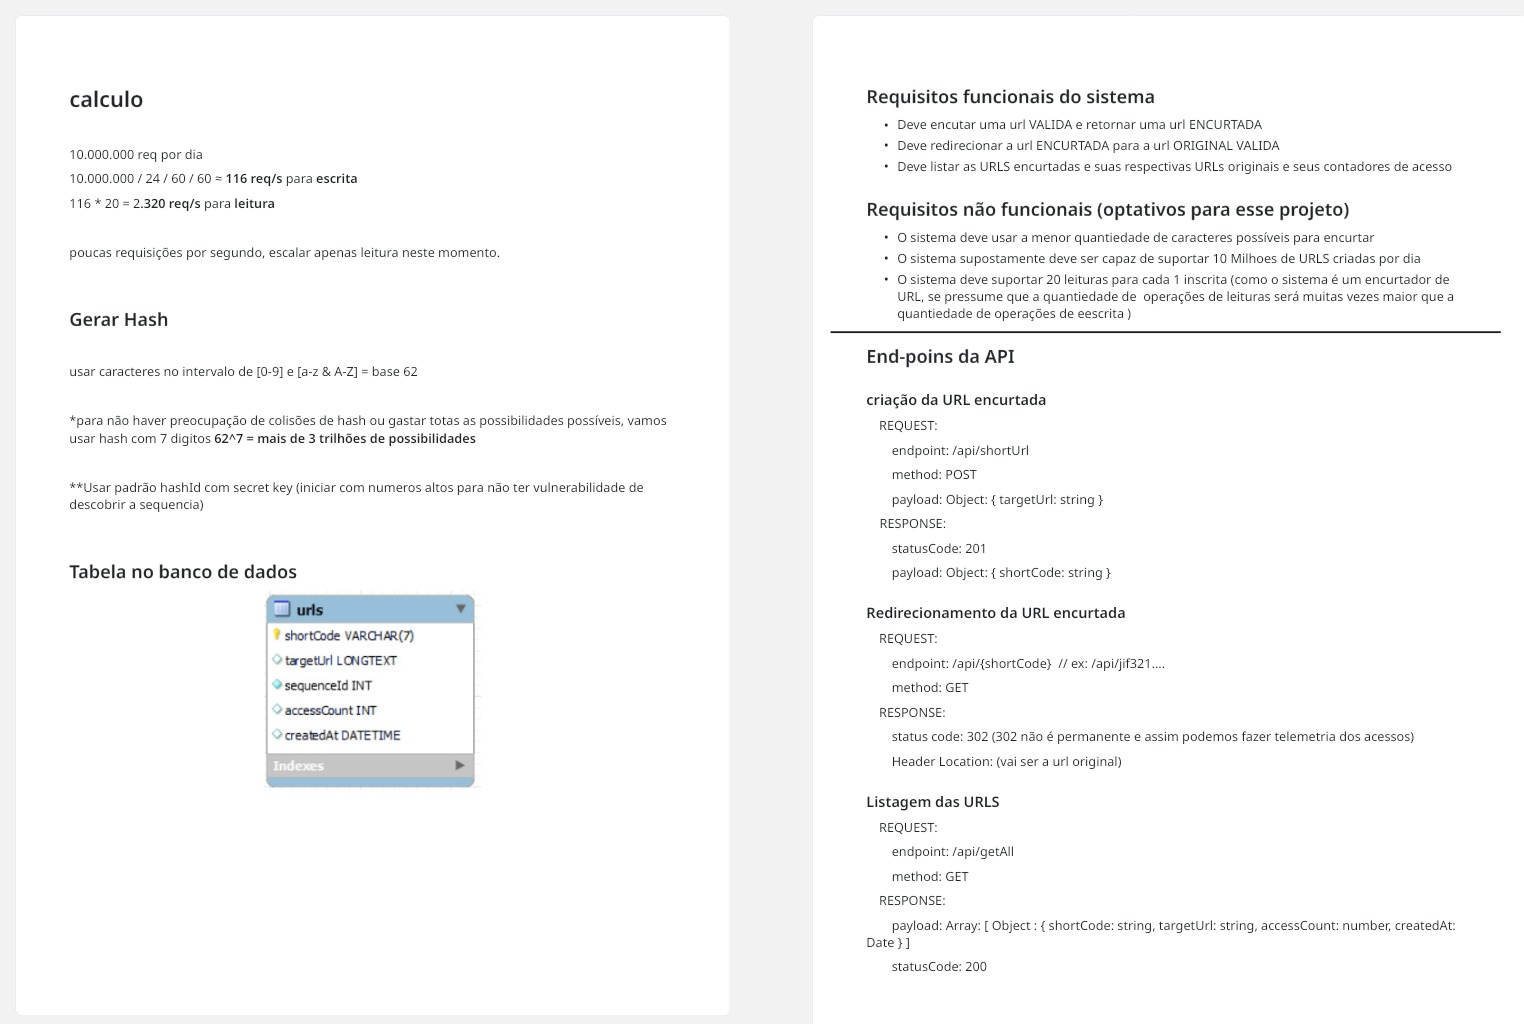
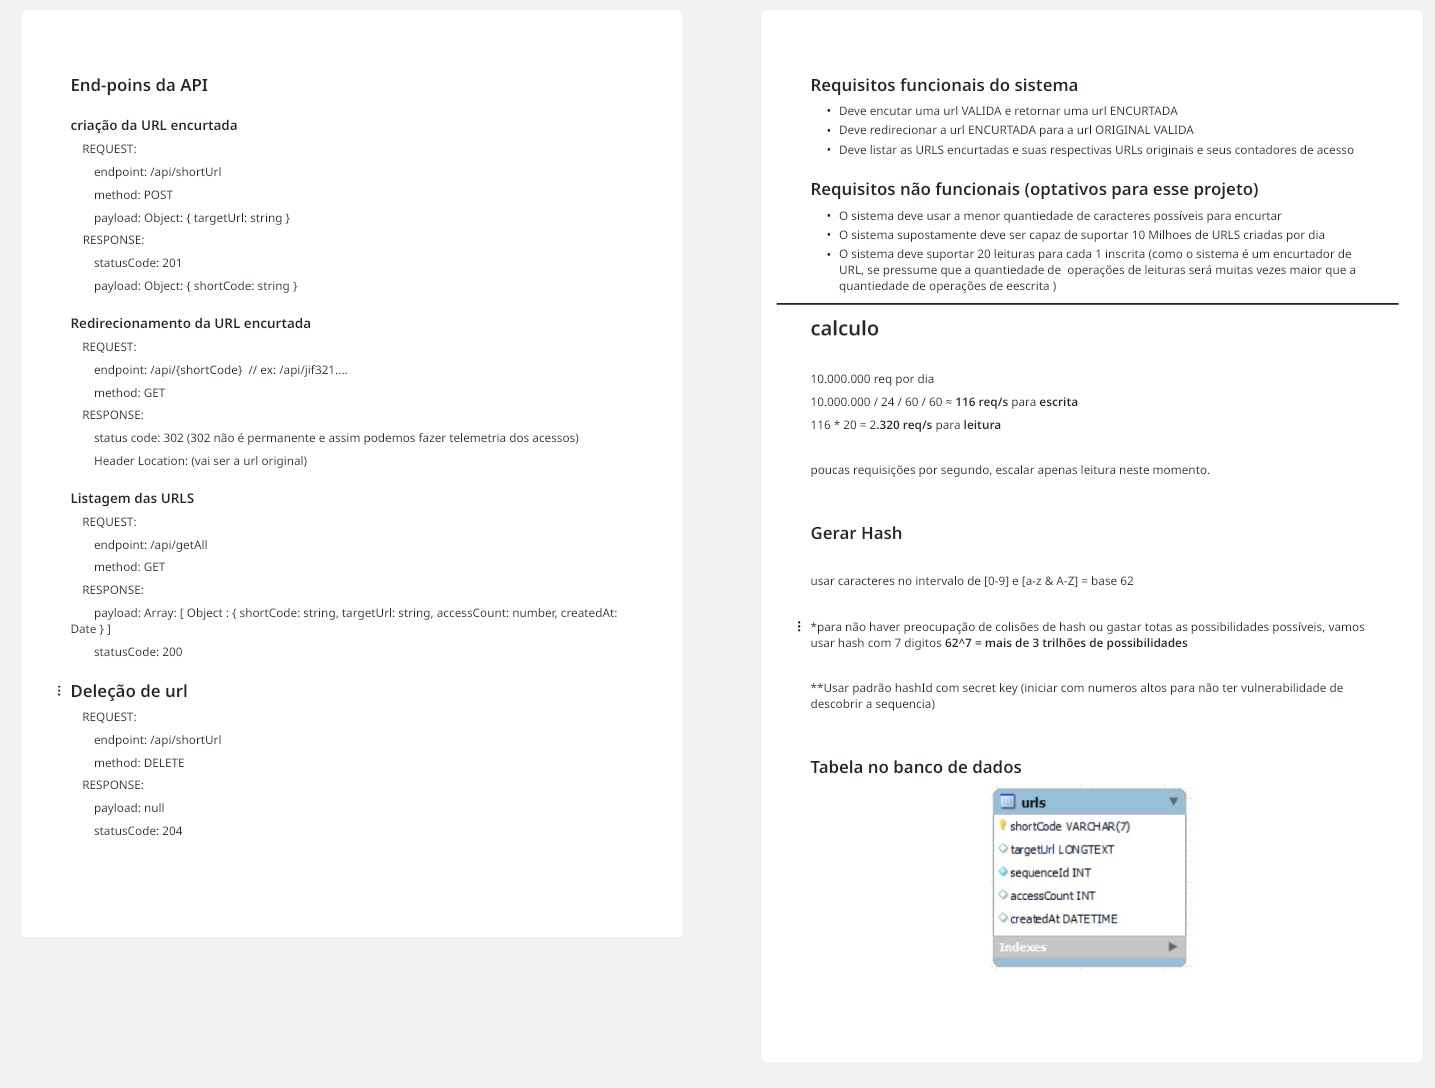
chore: final integrate frontend with backend

diff --git a/src/front-end/src/app/url/components/url-delete-modal/url-delete-modal.scss b/src/front-end/src/app/url/components/url-delete-modal/url-delete-modal.scss
@@ -1,0 +1,101 @@
+@use "../../../../styles/vars.scss" as *;
+
+.modal {
+    &-content {
+        width: 480px;
+        padding: 28px;
+        background-color: $color-surface;
+        gap: 16px;
+        border-radius: 10px;
+    }
+
+    &-title {
+        font-size: 22px;
+        margin: 0;
+        font-family: $font-family;
+        font-weight: 500;
+        color: $color-text;
+    }
+
+    &-subtitle {
+        font-size: 15px;
+        font-family: $font-family;
+        font-weight: 400;
+        color: $text-secondary-60;
+    }
+
+    &-url {
+        &-container {
+            height: auto;
+            background-color: $color-bg;
+            border-radius: 12px;
+            padding: 20px;
+            border: 0.5px solid $color-tag-bg;
+        }
+    }
+}
+
+.targetUrl,
+.count {
+    font-size: 15px;
+    white-space: nowrap;
+    font-family: $font-family;
+    font-weight: 400;
+    color: $text-secondary-60;
+}
+
+.shortCode {
+    font-size: 18px;
+    font-family: $font-family;
+    font-weight: 500;
+    color: $color-text;
+}
+
+dialog::backdrop {
+    background: rgba(0, 0, 0, 0.5);
+    width: 100vw;
+    height: 100vh;
+    display: flex;
+    justify-content: center;
+    align-items: center;
+}
+
+dialog {
+    border: none;
+    border-radius: 8px;
+    padding: 2rem;
+}
+
+.btn{
+
+    &s{
+        margin: 16px;
+        display: flex;
+        justify-content: end;
+        gap: 10px;
+    }
+
+    &-close{
+        background-color: transparent;
+        font-family: $font-family;
+        border: 1px solid $color-text;
+        font-size: 13px;
+        font-weight: 400;
+        border-radius: 10px;
+        padding:14px 28px;
+        color: $color-text;
+        pointer-events: all;
+    }
+
+    &-delete{
+        background-color: transparent;
+        font-family: $font-family;
+        border: 1px solid $color-accent;
+        font-size: 13px;
+        font-weight: 400;
+        border-radius: 10px;
+        padding:14px 28px;
+        color: $color-accent;
+        pointer-events: all;
+    }
+}

diff --git a/src/front-end/src/app/pages/list-urls/list-urls.ts b/src/front-end/src/app/pages/list-urls/list-urls.ts
@@ -1,11 +1,12 @@
-import { Component, inject } from '@angular/core';
+import { Component, inject, signal } from '@angular/core';
 import { UrlShorted } from '../../url/components/url-shorted/url-shorted';
-import { UrlsListState } from '../../url/state/urls-list';
+import { UrlModel, UrlsListState } from '../../url/state/urls-list';
 import { LongTextPipe } from '../../url/utils/long-text-pipe-pipe';
 import { DatePipe } from '@angular/common';
+import { UrlDeleteModal } from "../../url/components/url-delete-modal/url-delete-modal";
 
 @Component({
-  imports: [UrlShorted, LongTextPipe,DatePipe],
+  imports: [UrlShorted, LongTextPipe, DatePipe, UrlDeleteModal],
   selector: 'app-list-urls',
   styleUrl: './list-urls.scss',
   templateUrl: './list-urls.html',
@@ -13,5 +14,25 @@ import { DatePipe } from '@angular/common';
 export class ListUrls {
 
   protected state = inject(UrlsListState);
+  protected statusModal = signal("hidden");
+  protected chosenUrlModel = signal<UrlModel>({
+    accessCount:0,
+    createdAt:"",
+    shortCode:"",
+    targetUrl:""
+  })
+
+  protected openModal(urlModel:UrlModel){
+    this.chosenUrlModel.set(urlModel);
+    this.statusModal.set("show")
+  }
+
+  protected addView(urlModel:UrlModel){
+    urlModel.accessCount += 1;
+  }
+
+  protected async copy(shortCode:string) {
+    navigator.clipboard.writeText(`http://localhost:3000/${shortCode}`)
+  }
 
 }

diff --git a/src/front-end/src/app/pages/list-urls/list-urls.html b/src/front-end/src/app/pages/list-urls/list-urls.html
@@ -26,14 +26,14 @@
                         <span class="truncate"> {{ urlModel.targetUrl | longTextPipe }} </span>
                     </td>
                     <td class="col-short">
-                        <a href="http://localhost:3000/{{urlModel.shortCode}}" target="_blank" rel="noopener">
+                        <a (click)="this.addView(urlModel)" href="http://localhost:3000/{{urlModel.shortCode}}" target="_blank" rel="noopener">
                             http://localhost:3000/{{urlModel.shortCode}} </a>
                     </td> 
                     <td class="col-date"> {{urlModel.createdAt | date:'dd/MM/yyyy' }} </td>
                     <td class="col-clicks"> {{urlModel.accessCount}} </td>
                     <td class="col-actions">
-                        <button type="button" class="btn-copy">Copiar</button>
-                        <button type="button" class="btn-delete">Excluir</button>
+                        <button type="button" class="btn-copy" (click)="this.copy(urlModel.shortCode)">Copiar</button>
+                        <button type="button" class="btn-delete" (click)="openModal(urlModel)">Excluir</button>
                     </td>
                 </tr>
                 }
@@ -42,3 +42,5 @@
         </table>
     </div>
 </div>
+
+<app-url-delete-modal [(status)]="this.statusModal" [(urlModel)]="this.chosenUrlModel" ></app-url-delete-modal>

diff --git a/src/front-end/src/app/url/components/url-delete-modal/url-delete-modal.ts b/src/front-end/src/app/url/components/url-delete-modal/url-delete-modal.ts
@@ -1,0 +1,47 @@
+import { Component, effect, ElementRef, inject, input, model, untracked, ViewChild } from '@angular/core';
+import { LongTextPipe } from '../../utils/long-text-pipe-pipe';
+import { UrlModel, UrlsListState } from '../../state/urls-list';
+import { UrlFacade } from '../../facade/url-facade';
+
+@Component({
+  imports: [LongTextPipe],
+  selector: 'app-url-delete-modal',
+  styleUrl: './url-delete-modal.scss',
+  templateUrl: './url-delete-modal.html',
+})
+export class UrlDeleteModal {
+
+  private facade = inject(UrlFacade);
+  private urlsListState = inject(UrlsListState);
+  @ViewChild('modal') protected modal!: ElementRef<HTMLDialogElement>;
+
+  status = model("hidden");
+  urlModel = model.required<UrlModel>();
+
+  constructor() {
+    effect(() => {
+      if (this.status() == "hidden") {
+        this.close();
+      } else {
+        this.open()
+      }
+    })
+  }
+
+  open() {
+    this.modal.nativeElement.showModal();
+    document.body.style.overflow = 'hidden'; // fallback
+  }
+
+  close() {
+    untracked(() => this.status.set("hidden"))
+    this.modal.nativeElement.close();
+    document.body.style.overflow = ''; // fallback
+  }
+
+  protected deleteUrl() {
+    this.close();
+    this.urlsListState.removeOne(this.urlModel().shortCode)
+    this.facade.deleteUrlModel(this.urlModel().shortCode)
+  }
+}

diff --git a/src/front-end/src/app/url/components/url-shorted/url-shorted.html b/src/front-end/src/app/url/components/url-shorted/url-shorted.html
@@ -2,15 +2,13 @@
     <div class="shorten-form-field">
         <label class="shorten-form-label" for="targetUrl">URL original</label>
         <div class="shorten-form-row">
-            <div style="display: flex; flex-direction: column; width: 100%;">
-                <input id="targetUrl" class="shorten-form-input" type="url" [formField]="this.urlForm.targetUrl"
-                    placeholder="https://exemplo.com/pagina-com-endereco-muito-longo" autocomplete="off" />
-                @if(
-                this.urlForm.targetUrl().touched() &&
-                this.urlForm.targetUrl().invalid()){
-                <span class="input-invalid"> {{ this.urlForm.targetUrl().errors()[0].message }} </span>
-                }
-            </div>
+            <input id="targetUrl" class="shorten-form-input" type="url" [formField]="this.urlForm.targetUrl"
+                placeholder="https://exemplo.com/pagina-com-endereco-muito-longo" autocomplete="off" />
+            @if(
+            this.urlForm.targetUrl().touched() &&
+            this.urlForm.targetUrl().invalid()){
+            <span class="input-invalid"> {{ this.urlForm.targetUrl().errors()[0].message }} </span>
+            }
             <button type="submit" class="shorten-btn">Encurtar</button>
         </div>
     </div>

diff --git a/src/front-end/src/app/app.html b/src/front-end/src/app/app.html
@@ -1,16 +1,20 @@
 <header class="header">
-  <span class="header-logo">Encurta</span>
+  <div class="header-content">
+    <span class="header-logo">Encurta</span>
 
-  <nav class="header-nav">
-    <button type="button" class="header-nav-item" [class.header-nav-item--active]="activeTab() === 'encurtar'"
-      (click)="setTab('encurtar')">
-      Encurtar
-    </button>
-    <button type="button" class="header-nav-item" [class.header-nav-item--active]="activeTab() === 'meus-links'"
-      (click)="setTab('meus-links')">
-      Meus links
-    </button>
-  </nav>
+    <nav class="header-nav">
+      <button type="button" class="header-nav-item" [class.header-nav-item--active]="activeTab() === 'encurtar'"
+        (click)="setTab('encurtar')"
+        routerLink="/home">
+        Encurtar
+      </button>
+      <button type="button" class="header-nav-item" [class.header-nav-item--active]="activeTab() === 'meus-links'"
+        (click)="setTab('meus-links')"
+        routerLink="/list">
+        Meus links
+      </button>
+    </nav>
+  </div>
 </header>
 
 <router-outlet></router-outlet>

diff --git a/src/front-end/src/app/url/components/url-delete-modal/url-delete-modal.html b/src/front-end/src/app/url/components/url-delete-modal/url-delete-modal.html
@@ -1,0 +1,17 @@
+
+
+<dialog class="modal-content" #modal>
+  <h2 class="modal-title">Excluir esse link?</h2>
+  <p class="modal-subtitle">O link curto deixará de funcionar imediatamente e o historico de clique será perdido. Está ação não pode ser desfeita.</p>
+
+  <section class="modal-url-container">
+    <h3 class="shortCode"> 	http://localhost:3000/{{this.urlModel().shortCode}} </h3>
+    <p class="targetUrl"> {{ this.urlModel().targetUrl| longTextPipe:50 }} </p>
+    <p class="count"> {{ this.urlModel().accessCount }} cliques </p>
+  </section>
+
+  <section class="btns">
+    <button type="button" class="btn-close" (click)="this.close()"> Cancelar </button>
+    <button type="button" class="btn-delete" (click)="this.deleteUrl()"> Excluir link </button>
+  </section>
+</dialog>

diff --git a/src/front-end/src/app/app.scss b/src/front-end/src/app/app.scss
@@ -13,10 +13,18 @@
     display: flex;
     align-items: center;
     justify-content: space-around;
-    gap:650px;
+    display: flex;
+    justify-content: center;
     height: 61px;
     padding: 18px 40px;
     border-bottom: 1px solid $color-divider;
+
+    &-content{
+        width: 100%;
+        max-width: $container-max;
+        display: flex;
+        justify-content: space-between;
+    }
 
     &-logo {
         font-size: 19px;
@@ -43,7 +51,7 @@
         color: $text-secondary-60;
 
         &--active {
-            color: $color-text;
+            color: $color-accent;
             text-decoration: underline;
             text-underline-offset: 4px;
             text-decoration-thickness: 2px;

diff --git a/src/front-end/src/app/url/components/url-delete-modal/url-delete-modal.spec.ts b/src/front-end/src/app/url/components/url-delete-modal/url-delete-modal.spec.ts
@@ -1,0 +1,21 @@
+import { ComponentFixture, TestBed } from '@angular/core/testing';
+import { UrlDeleteModal } from './url-delete-modal';
+
+describe('UrlDeleteModal', () => {
+  let component: UrlDeleteModal;
+  let fixture: ComponentFixture<UrlDeleteModal>;
+
+  beforeEach(async () => {
+    await TestBed.configureTestingModule({
+      imports: [UrlDeleteModal],
+    }).compileComponents();
+
+    fixture = TestBed.createComponent(UrlDeleteModal);
+    component = fixture.componentInstance;
+    await fixture.whenStable();
+  });
+
+  it('should create', () => {
+    expect(component).toBeTruthy();
+  });
+});

diff --git a/src/front-end/src/app/url/utils/long-text-pipe-pipe.ts b/src/front-end/src/app/url/utils/long-text-pipe-pipe.ts
@@ -6,9 +6,14 @@ import { Pipe, PipeTransform } from '@angular/core';
 })
 export class LongTextPipe implements PipeTransform {
 
-  private maxLength = 60;
+  private maxLength:number = 60;
 
   transform(value: string , ...args: unknown[]): unknown {
+
+    if(args && typeof args[0] == "number"){
+      this.maxLength = Number(args[0])
+    }
+
     const posFix = value.length > this.maxLength ? "..." : ""
     return value.slice(0,this.maxLength) + posFix
   }

diff --git a/src/front-end/src/app/url/components/url-shorted/url-shorted.scss b/src/front-end/src/app/url/components/url-shorted/url-shorted.scss
@@ -10,7 +10,6 @@
 }
 
 .shorten-form {
-    max-width: $form-max;
     margin-top: 40px;
 
     &-label {
@@ -27,6 +26,7 @@
         display: flex;
         align-items: stretch;
         gap: 12px;
+        max-width: 990px;
     }
 
     &-input {
@@ -41,6 +41,8 @@
         font-size: 15px;
         font-weight: 400;
         line-height: 1.2;
+        width: 100%;
+        max-width: 865px;
 
         &::placeholder {
             color: $text-secondary-40;

diff --git a/src/front-end/src/app/url/state/urls-list.ts b/src/front-end/src/app/url/state/urls-list.ts
@@ -39,6 +39,15 @@ export class UrlsListState {
         }));
     }
 
+    removeOne(shortCode: string) {
+        this.state.update(state => {
+            return {
+                ...state,
+                urls: state.urls.filter(el => el.shortCode !== shortCode)
+            }
+        })
+    }
+
     setError(message: string): void {
         this.state.update((s) => ({ ...s, error: message, load: false }));
     }
